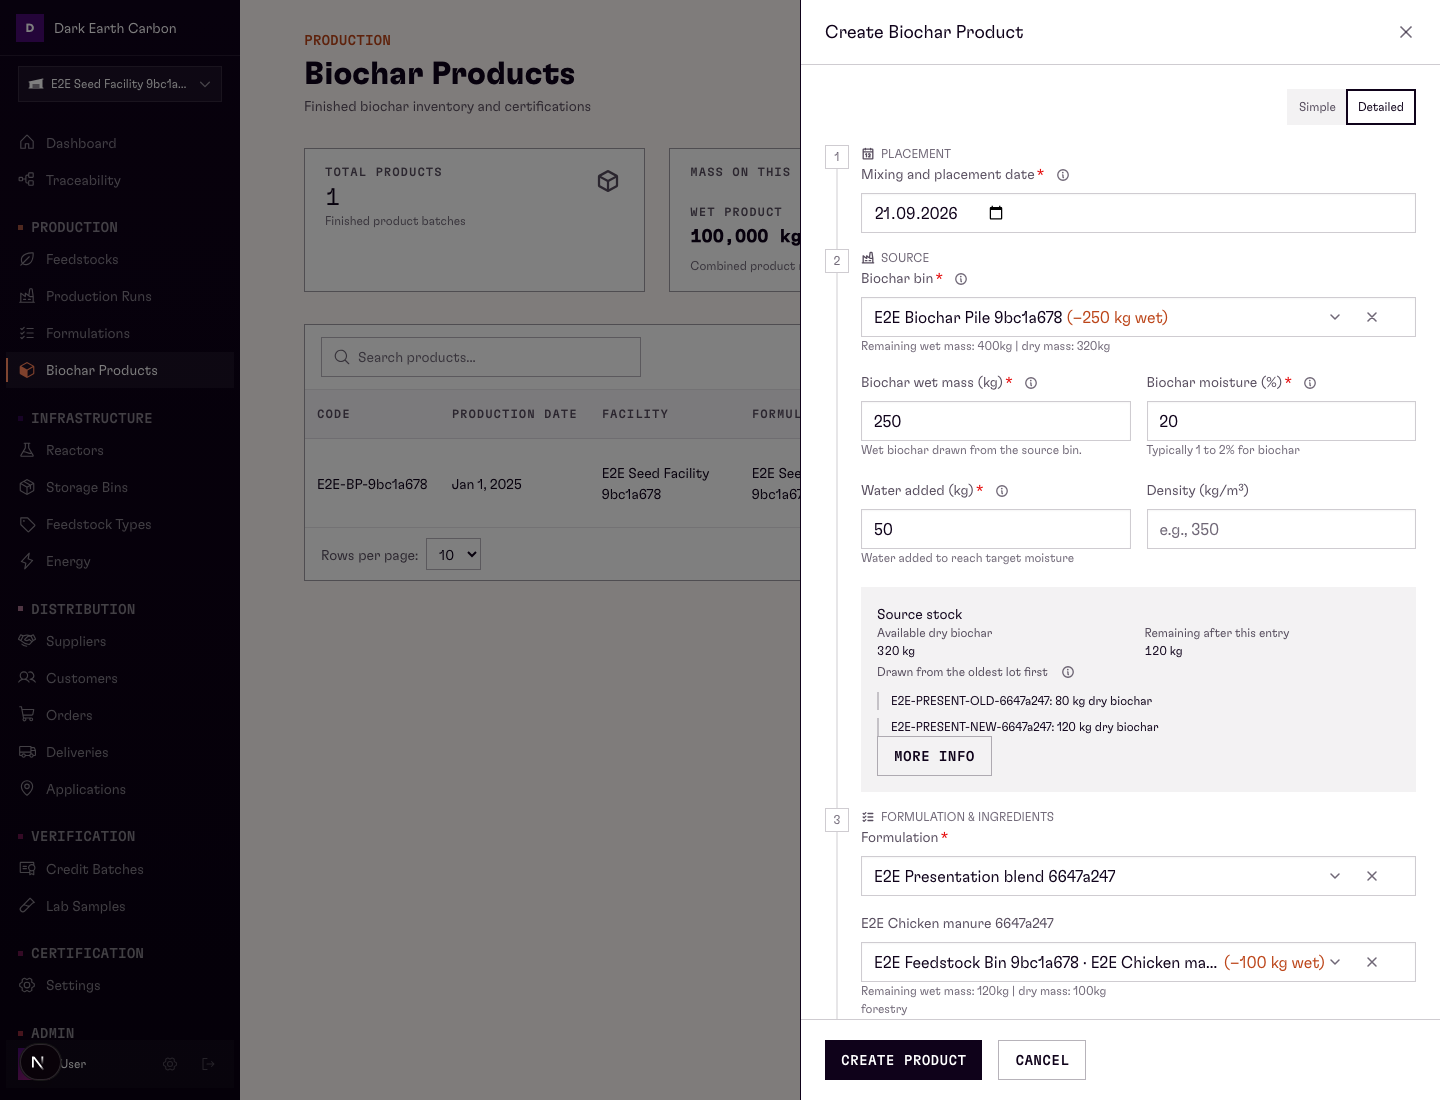
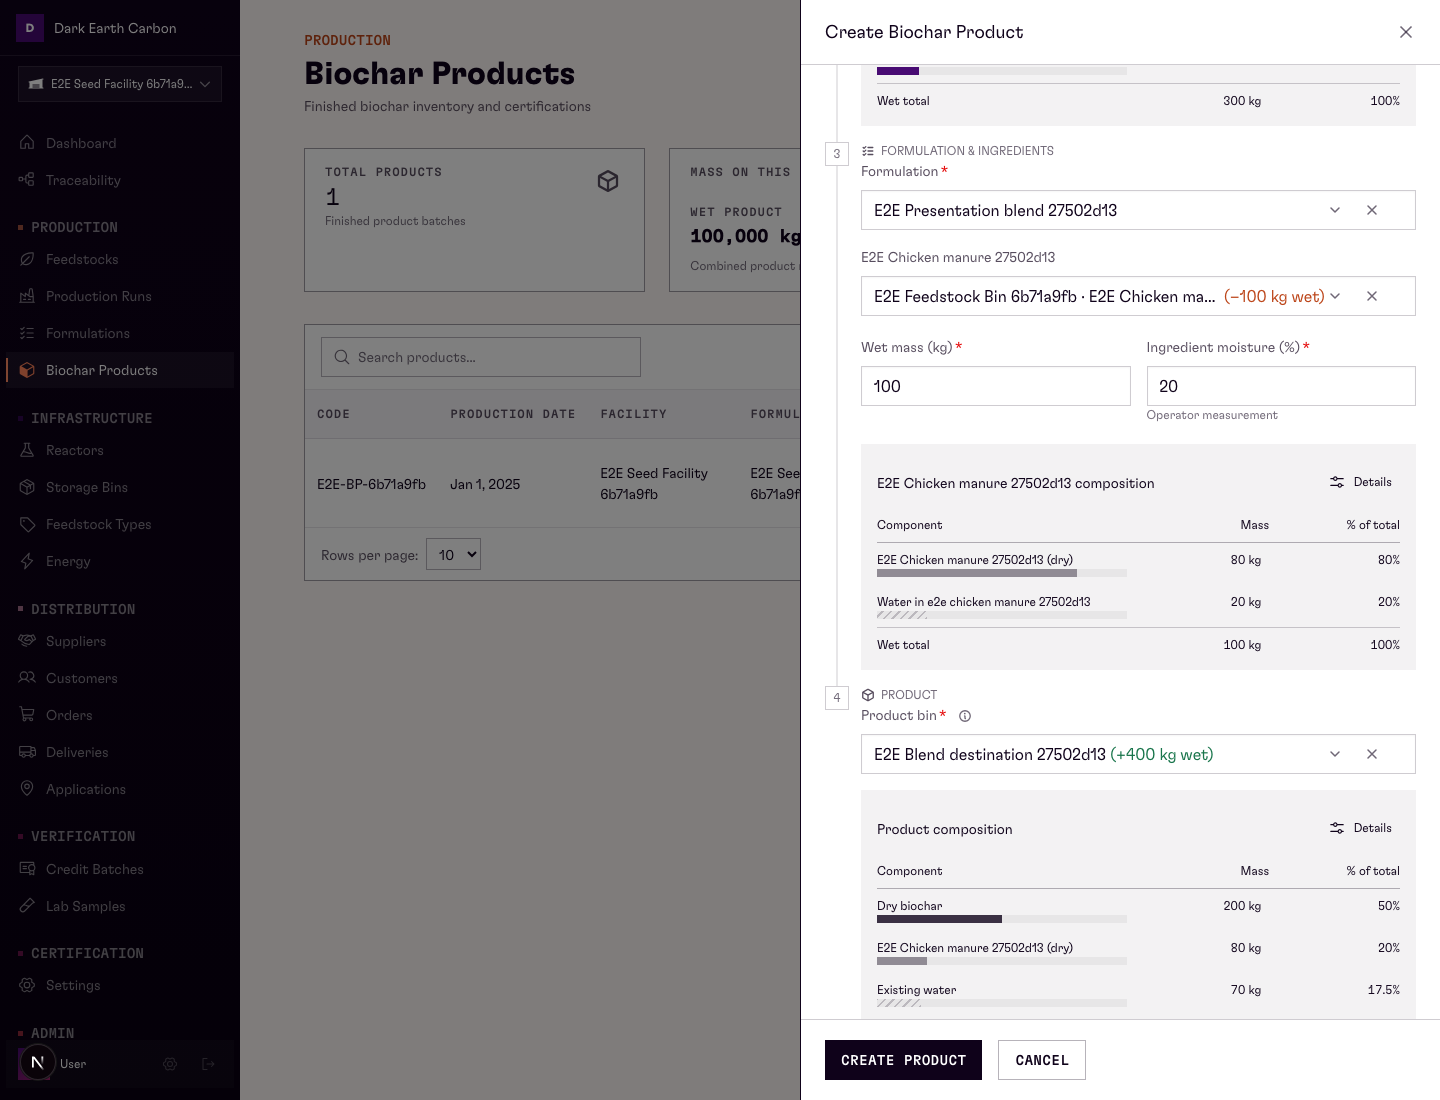
test: verify approved product and order presentation

diff --git a/tests/e2e/product-order-presentation.spec.ts b/tests/e2e/product-order-presentation.spec.ts
@@ -43,8 +43,27 @@ async function showDetailsWithKeyboard(dialog: Locator) {
 async function capture(page: Page, name: string) {
   const info = test.info();
   const path = info.outputPath(`${name}.png`);
-  await page.screenshot({ path, fullPage: true });
+  await page.screenshot({ path, fullPage: false });
   await info.attach(name, { path, contentType: "image/png" });
+}
+
+async function assertSimplePresentation(dialog: Locator) {
+  await expect(dialog.getByRole("radio", { name: "Simple", exact: true })).toBeChecked();
+  await expect(dialog.getByRole("region", { name: /composition|stock/i })).toHaveCount(0);
+  await expect(dialog.getByRole("table")).toHaveCount(0);
+  await expect(dialog.getByRole("button", { name: /More info|View source lots|Show details for/i })).toHaveCount(0);
+  await expect(dialog.getByText(/^(Dry biochar|Wet total|Final moisture|Current stock|Derived transport)$/i)).toHaveCount(0);
+}
+
+async function captureSimple(page: Page, dialog: Locator, name: string) {
+  await assertSimplePresentation(dialog);
+  await page.setViewportSize(DESKTOP_VIEWPORT);
+  await dialog.getByText("Simple", { exact: true }).scrollIntoViewIfNeeded();
+  await capture(page, `${name}-simple-desktop`);
+  await page.setViewportSize(NARROW_VIEWPORT);
+  await assertNoHorizontalOverflow(dialog);
+  await capture(page, `${name}-simple-narrow`);
+  await page.setViewportSize(DESKTOP_VIEWPORT);
 }
 
 async function assertNoHorizontalOverflow(dialog: Locator) {
@@ -107,18 +126,45 @@ test("product inline presentation preserves measured inputs and guards actual st
     await expect(entityTrigger(dialog, scenario.ingredientName)).toContainText("−100 kg wet");
     await expect(destinationTrigger).toContainText(`+${PRODUCT_TOTAL_KG} kg wet`);
     await expect(dialog.getByRole("region", { name: /composition/ })).toHaveCount(0);
-    await capture(page, "product-simple-desktop");
+    await captureSimple(page, dialog, "product");
 
     await showDetailsWithKeyboard(dialog);
-    const source = dialog.getByRole("region", { name: "Source stock", exact: true });
+    const source = dialog.getByRole("region", { name: "Source composition", exact: true });
     const product = dialog.getByRole("region", { name: "Product composition", exact: true });
     await expect(source).toBeVisible();
-    await expect(product.getByRole("row", { name: /Biochar \(dry\)/ })).toContainText("200 kg");
+    await expect(source.getByRole("button", { name: "Show details for source composition", exact: true }).locator("span")).toHaveCSS("text-transform", "none");
+    await expect(product.getByRole("row", { name: /Dry biochar/ })).toContainText("200 kg");
     await expect(product.getByRole("row", { name: new RegExp(`${scenario.ingredientName}.*dry`) })).toContainText("80 kg");
     await expect(product.getByRole("row", { name: "Wet total", exact: false })).toContainText("400 kg");
+    await expect(source.getByText(scenario.firstCode, { exact: false })).toBeHidden();
+    await source.scrollIntoViewIfNeeded();
+    await capture(page, "product-source-composition");
+    const ingredient = dialog.getByRole("region", { name: `${scenario.ingredientName} composition`, exact: true });
+    await expect(ingredient.getByRole("row", { name: new RegExp(`${scenario.ingredientName}.*dry`) })).toContainText("80 kg");
+    await ingredient.scrollIntoViewIfNeeded();
+    await capture(page, "product-ingredient-composition");
+    await source.getByRole("button", { name: "Show details for source composition", exact: true }).click();
+    await source.scrollIntoViewIfNeeded();
+    await capture(page, "product-source-details");
     await expect(source.getByText(`${scenario.firstCode}: 80 kg dry biochar`, { exact: true }).first()).toBeVisible();
     await expect(source.getByText(`${scenario.secondCode}: 120 kg dry biochar`, { exact: true }).first()).toBeVisible();
+    await capture(page, "product-source-fifo");
+    await source.getByRole("button", { name: "View source lots", exact: true }).click();
+    const sourceHistory = page.getByRole("dialog", { name: "Stock history", exact: true });
+    await expect(sourceHistory).toBeVisible();
+    await capture(page, "product-source-lots");
+    await page.keyboard.press("Escape");
+    await expect(sourceHistory).toBeHidden();
+    await source.getByRole("button", { name: "Hide details for source composition", exact: true }).click();
+    await product.scrollIntoViewIfNeeded();
     await capture(page, "product-detailed-desktop");
+    await product.getByRole("button", { name: "Show details for product composition", exact: true }).click();
+    const productDetailsId = await product.getByRole("button", { name: "Hide details for product composition", exact: true }).getAttribute("aria-controls");
+    if (!productDetailsId) throw new Error("Product details require an associated disclosure");
+    await dialog.locator(`[id="${productDetailsId}"]`).scrollIntoViewIfNeeded();
+    await expect(product.getByText("Drawn from the oldest lot first", { exact: true })).toHaveCount(0);
+    await capture(page, "product-final-details");
+    await product.getByRole("button", { name: "Hide details for product composition", exact: true }).click();
 
     await dialog.getByText("Simple", { exact: true }).click();
     await expect(dialog.getByRole("radio", { name: "Simple", exact: true })).toBeChecked();
@@ -180,9 +226,10 @@ test("product inline presentation preserves measured inputs and guards actual st
       await page.locator("tbody").getByText(saved[0].code, { exact: true }).click();
       await expect(dialog.getByRole("radio", { name: "Simple", exact: true })).toBeChecked();
       await expect(dialog.getByRole("region", { name: /composition/ })).toHaveCount(0);
+      await captureSimple(page, dialog, "product-read");
       await showDetailsWithKeyboard(dialog);
       const savedComposition = dialog.getByRole("region", { name: "Product composition", exact: true });
-      await expect(savedComposition.getByRole("row", { name: /Biochar \(dry\)/ })).toContainText("200 kg");
+      await expect(savedComposition.getByRole("row", { name: /Dry biochar/ })).toContainText("200 kg");
       await expect(savedComposition.getByRole("row", { name: new RegExp(`${scenario.ingredientName}.*dry`) })).toContainText("80 kg");
       await expect(savedComposition.getByRole("row", { name: "Wet total", exact: false })).toContainText("400 kg");
       await savedComposition.scrollIntoViewIfNeeded();
@@ -197,6 +244,7 @@ test("product inline presentation preserves measured inputs and guards actual st
       await expect(dialog.getByRole("radio", { name: "Simple", exact: true })).toBeChecked();
       await expect(dialog.locator('input[name="massKg"]')).toHaveValue("250");
       await expect(dialog.locator('input[name="massKg"]')).toBeDisabled();
+      await captureSimple(page, dialog, "product-edit");
       await showDetailsWithKeyboard(dialog);
       await expect(dialog.getByRole("region", { name: "Product composition", exact: true })).toContainText("400 kg");
       await dialog.getByRole("region", { name: "Product composition", exact: true }).scrollIntoViewIfNeeded();
@@ -248,19 +296,26 @@ test("order details show actual dry stock and saving requested wet mass does not
   await dialog.locator('input[name="value"]').fill("230");
   await expect(dialog.getByRole("region", { name: "Matching storage bins" })).toHaveCount(0);
   await expect(entityTrigger(dialog, "Formulation")).not.toContainText("125");
+  await captureSimple(page, dialog, "order");
   await showDetailsWithKeyboard(dialog);
   const stock = dialog.getByRole("region", { name: "Matching storage bins" });
   await expect(stock).toContainText(seededData.productStorageLocation.name);
+  expect(await dialog.locator('input[name="currency"]').evaluate((field) => {
+    const stock = document.querySelector('[aria-label="Matching storage bins"]');
+    return stock !== null && Boolean(field.compareDocumentPosition(stock) & Node.DOCUMENT_POSITION_FOLLOWING);
+  })).toBe(true);
   await expect(stock).toContainText("90,000 kg");
   await expect(stock).toContainText(/dry biochar/);
   await expect(stock).toContainText(/do not reserve stock/);
-  const stockExplanation = stock.getByText("Wet availability depends on measured departure moisture.", { exact: true });
+  const stockExplanation = stock.getByText(/Wet availability depends on measured departure moisture\./);
   await expect(stockExplanation).toBeHidden();
-  const stockDetails = stock.getByRole("button", { name: `Show details for ${seededData.productStorageLocation.name}`, exact: true });
+  const stockDetails = stock.getByRole("button", { name: `Show details for ${seededData.productStorageLocation.name.toLowerCase()}`, exact: true });
   await stockDetails.focus();
   await page.keyboard.press("Enter");
   await expect(stockExplanation).toBeVisible();
-  await expect(stock.getByRole("button", { name: `Hide details for ${seededData.productStorageLocation.name}`, exact: true })).toHaveAttribute("aria-expanded", "true");
+  await stock.scrollIntoViewIfNeeded();
+  await capture(page, "order-stock-details");
+  await expect(stock.getByRole("button", { name: `Hide details for ${seededData.productStorageLocation.name.toLowerCase()}`, exact: true })).toHaveAttribute("aria-expanded", "true");
   await page.keyboard.press("Enter");
   await expect(stockExplanation).toBeHidden();
   await expect(stock.getByText("Loading stock details...", { exact: true })).toBeHidden();
@@ -301,6 +356,7 @@ test("order details show actual dry stock and saving requested wet mass does not
     await expect(dialog.getByRole("radio", { name: "Simple", exact: true })).toBeChecked();
     await expect(dialog.getByRole("region", { name: "Matching storage bins" })).toHaveCount(0);
     await expect(dialog.getByText("125.125 kg", { exact: true })).toBeVisible();
+    await captureSimple(page, dialog, "order-read");
     const readValueBox = await dialog.getByText("Order value", { exact: true }).boundingBox();
     const readCurrencyBox = await dialog.getByText("Currency", { exact: true }).boundingBox();
     const readPackagingBox = await dialog.getByText("Packaging", { exact: true }).boundingBox();
@@ -322,6 +378,7 @@ test("order details show actual dry stock and saving requested wet mass does not
     await dialog.getByRole("button", { name: "Edit Order", exact: true }).click();
     await expect(dialog.getByRole("radio", { name: "Simple", exact: true })).toBeChecked();
     await expect(dialog.locator('input[name="quantityKg"]')).toHaveValue("125.125");
+    await captureSimple(page, dialog, "order-edit");
     await showDetailsWithKeyboard(dialog);
     await stock.scrollIntoViewIfNeeded();
     await capture(page, "order-edit-detailed");

diff --git a/docs/archive/qa/2026-09-21-product-order-pr-821/README.md b/docs/archive/qa/2026-09-21-product-order-pr-821/README.md
@@ -1,123 +1,91 @@
-# Product and Order screenshot review
+# Product and Order: approved E correction
 
-Visual evidence for [PR #821](https://github.com/Maji-Studio/noma-dmrv/pull/821), captured from the real application after the declutter pass (one composition table per surface, stock context as its own panel, calculation lists and repeated headers removed). Use this gallery to review the Product and Order create, read, and edit surfaces on desktop and narrow screens.
+Visual evidence for [PR #821](https://github.com/Maji-Studio/noma-dmrv/pull/821), refreshed on 2026-09-22 after restoring the approved E presentation. These images replace the earlier declutter screenshots. Application code commit: `6db75935986c1c423af456d347e773da3607fd6b`.
 
-Application commit: `7925b4b26e4e5b340f814dba68b97981fded6416`.
+The authoritative reference is the preserved, uncommitted E prototype in `/private/tmp/noma-product-order-ui-prototype`, previewed at localhost:3116. The real application retains its authenticated forms and canonical calculations; reference mock data was not copied into production logic.
 
-These screenshots use synthetic local E2E records. Desktop viewport: 1440 × 1100; narrow viewport: 390 × 844. Images are unmodified full-page browser captures, so some include success toasts, the local development badge, or page content below the sheet viewport. The browser flow scrolls to the relevant fields before each capture; individual images are views of the sheet rather than stitched captures of all its content.
+Simple shows inputs or recorded fields only, plus required errors and valid selector stock changes. Detailed adds source, named ingredient, and final Product composition tables. Calculation and source-lot context is behind Details. Order stock follows all form fields, grouped by bin then blend/lot.
 
-Validation at capture: the Product/Order presentation, FIFO, and distribution browser specs passed (16 tests), including keyboard Details controls, value preservation, actual saves, and narrow-layout overflow checks.
+Images are unmodified browser viewport captures: desktop 1440 × 1100, narrow 390 × 844. Each view scrolls the sheet to the relevant content. Some captures include local development indicators or success toasts. Synthetic E2E records deliberately exercise long labels; their measured masses differ from the prototype fixture.
 
-## Quick comparison
+Validation: both full presentation/FIFO specs passed (6 tests); after the final shared Details control sizing change, both presentation flows passed again (2 tests, 25.4 seconds). The complete Product flow passed again after correcting destination-addition context (1 test, 22.3 seconds). Coverage includes create/read/edit, keyboard controls, disclosure visibility, preserved values/errors, invalid and alternate bins, exact FIFO allocations, actual saves, no order stock reservation, precise read values, field alignment, and narrow overflow. Targeted ESLint and diff checks passed.
 
-| Product | Order |
-| --- | --- |
-| [Create: Simple](product-simple-desktop.png) | [Create: Detailed](order-detailed-desktop.png) |
-| [Create: Detailed](product-detailed-desktop.png) | [Field layout](order-fields-desktop.png) |
-| [Read](product-read-detailed.png) | [Read](order-read-detailed.png) |
-| [Edit](product-edit-detailed.png) | [Edit](order-edit-detailed.png) |
-| [Narrow create](product-detailed-narrow.png) | [Narrow create](order-detailed-narrow.png) |
-| [Narrow read](product-read-narrow.png) | [Narrow read](order-read-narrow.png) |
-| [Narrow edit](product-edit-narrow.png) | [Narrow edit](order-edit-narrow.png) |
+## Simple in every mode
 
-## Product
+| Surface | Desktop | Narrow |
+| --- | --- | --- |
+| Product create | [Fields only](product-simple-desktop.png) | [Fields only](product-simple-narrow.png) |
+| Product read | [Fields only](product-read-simple-desktop.png) | [Fields only](product-read-simple-narrow.png) |
+| Product edit | [Fields only](product-edit-simple-desktop.png) | [Fields only](product-edit-simple-narrow.png) |
+| Order create | [Fields only](order-simple-desktop.png) | [Fields only](order-simple-narrow.png) |
+| Order read | [Fields only](order-read-simple-desktop.png) | [Fields only](order-read-simple-narrow.png) |
+| Order edit | [Fields only](order-edit-simple-desktop.png) | [Fields only](order-edit-simple-narrow.png) |
+
+## Detailed in every mode
+
+| Surface | Desktop | Narrow |
+| --- | --- | --- |
+| Product create | [Detailed](product-detailed-desktop.png) | [Detailed](product-detailed-narrow.png) |
+| Product read | [Detailed](product-read-detailed.png) | [Detailed](product-read-narrow.png) |
+| Product edit | [Detailed](product-edit-detailed.png) | [Detailed](product-edit-narrow.png) |
+| Order create | [Detailed](order-detailed-desktop.png) | [Detailed](order-detailed-narrow.png) |
+| Order read | [Detailed](order-read-detailed.png) | [Detailed](order-read-narrow.png) |
+| Order edit | [Detailed](order-edit-detailed.png) | [Detailed](order-edit-narrow.png) |
+
+## Composition and progressive details
 
 <details>
-<summary>Create: Simple</summary>
+<summary>Source composition below water and density</summary>
 
-![Product: Create: Simple](product-simple-desktop.png)
+![Source composition below water and density](product-source-composition.png)
 
 </details>
 
 <details>
-<summary>Create: Detailed with calculation context</summary>
+<summary>Named ingredient composition below its inputs</summary>
 
-![Product: Create: Detailed with calculation context](product-detailed-desktop.png)
-
-</details>
-
-<details>
-<summary>Create: Detailed, narrow</summary>
-
-![Product: Create: Detailed, narrow](product-detailed-narrow.png)
+![Named ingredient composition below its inputs](product-ingredient-composition.png)
 
 </details>
 
 <details>
-<summary>Read: saved composition</summary>
+<summary>Source calculation and stock context</summary>
 
-![Product: Read: saved composition](product-read-detailed.png)
-
-</details>
-
-<details>
-<summary>Read: narrow</summary>
-
-![Product: Read: narrow](product-read-narrow.png)
+![Source calculation and stock context](product-source-details.png)
 
 </details>
 
 <details>
-<summary>Edit: Detailed</summary>
+<summary>Actual FIFO source shares</summary>
 
-![Product: Edit: Detailed](product-edit-detailed.png)
-
-</details>
-
-<details>
-<summary>Edit: narrow</summary>
-
-![Product: Edit: narrow](product-edit-narrow.png)
-
-</details>
-
-## Order
-
-<details>
-<summary>Create: Detailed stock</summary>
-
-![Order: Create: Detailed stock](order-detailed-desktop.png)
+![Actual FIFO source shares](product-source-fifo.png)
 
 </details>
 
 <details>
-<summary>Create: field layout</summary>
+<summary>Source-lot history dialog</summary>
 
-![Order: Create: field layout](order-fields-desktop.png)
-
-</details>
-
-<details>
-<summary>Create: Detailed, narrow</summary>
-
-![Order: Create: Detailed, narrow](order-detailed-narrow.png)
+![Source-lot history dialog](product-source-lots.png)
 
 </details>
 
 <details>
-<summary>Read: current stock</summary>
+<summary>Final product Details disclosure</summary>
 
-![Order: Read: current stock](order-read-detailed.png)
-
-</details>
-
-<details>
-<summary>Read: narrow</summary>
-
-![Order: Read: narrow](order-read-narrow.png)
+![Final product Details disclosure](product-final-details.png)
 
 </details>
 
 <details>
-<summary>Edit: Detailed</summary>
+<summary>Order fields followed by stock</summary>
 
-![Order: Edit: Detailed](order-edit-detailed.png)
+![Order fields followed by stock](order-fields-desktop.png)
 
 </details>
 
 <details>
-<summary>Edit: narrow</summary>
+<summary>Order stock calculation and provenance</summary>
 
-![Order: Edit: narrow](order-edit-narrow.png)
+![Order stock calculation and provenance](order-stock-details.png)
 
 </details>
